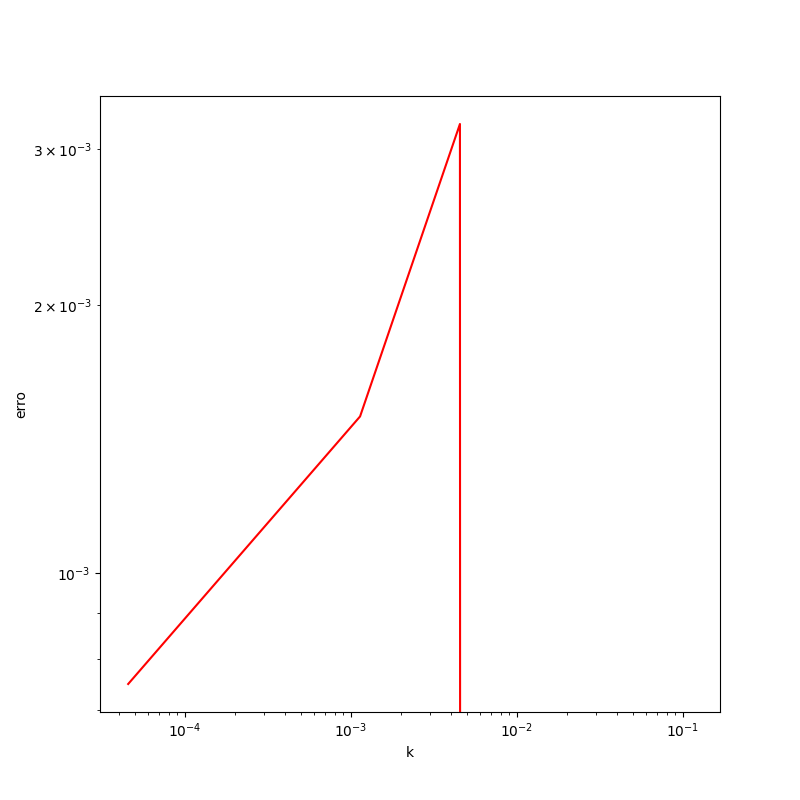
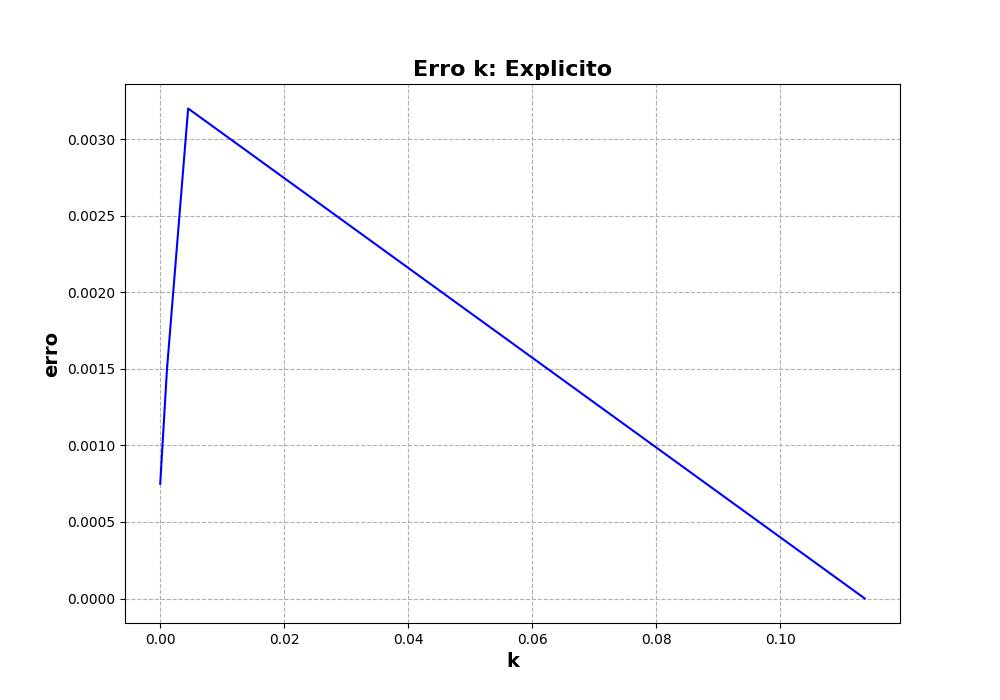
graficos bonitos

diff --git a/03/Metodos.py b/03/Metodos.py
@@ -47,11 +47,12 @@ class Metodos:
         fig = plt.figure(figsize=(10, 10))
         ax = plt.axes(projection='3d')
 
-        ax.view_init(30, 45)
-
         self.u_ref = self.u_analitica(X, T)
 
-        ax.plot_surface(X, T, self.u_ref, cmap='cividis')
+        # Plotando gráfico de superfície
+        surf = ax.plot_surface(X, T, self.u_ref, cmap=plt.cm.ocean)
+
+        fig.colorbar(surf)
 
         ax.view_init(30, 45)
         ax.set_xlabel('X')
@@ -185,7 +186,8 @@ class Metodos:
         fig = plt.figure(figsize=(10, 10))
         ax = plt.axes(projection='3d')
 
-        ax.plot_surface(X, T, U, cmap='cividis')
+        surf = ax.plot_surface(X, T, U, cmap=plt.cm.ocean)
+        fig.colorbar(surf)
 
         ax.view_init(30, 45)
         ax.set_xlabel('X')
@@ -218,16 +220,22 @@ class Metodos:
             fig, ax = plt.subplots()
             ultima_linha = U[-1, :]
 
-            ax.plot(x_lin, ultima_linha)
-            ax.plot(x_lin, u_ref)
+            plt.figure(figsize=(10, 7))
+            plt.xlabel("x", fontdict={"fontsize": 14, "fontweight": "bold"})
+            plt.ylabel("u", fontdict={"fontsize": 14, "fontweight": "bold"})
+            plt.title(
+                "X/U - Método: " + nome, fontdict={"fontsize": 16, "fontweight": "bold"}
+            )
 
-            plt.title("t = %.2f" % i)
-            plt.xlabel('x')
-            plt.ylabel('u')
+            plt.plot(x_lin, ultima_linha, color="blue", label="Solução numérica")
+            plt.plot(x_lin, u_ref, "--", color="red", label="Solução analítica")
 
             ax.set_xlim([self.dom_x[0], self.dom_x[1]])
             ax.set_ylim([self.dom_t[0], self.dom_t[1]])
-            plt.legend(['Solução numérica', 'Solução analítica'])
+
+            plt.grid(linestyle='--')
+
+            plt.legend()
 
             # Salvar o gráfico como uma imagem
             if not os.path.exists('resultados/comparacoes_'+nome):
@@ -266,23 +274,47 @@ class Metodos:
         # Tabela dos valores para a análise da convergência
         analise_conv = pd.DataFrame({'h': valores_h, 'k': valores_k, 'erro': erro})
 
-        # Plotando figuras de convergência
-        analise_conv.plot.line(x='h', y='erro', loglog=True, legend=False, figsize=(8, 8), color='red')
-        plt.ylabel('erro')
+        # =================
 
-        # Salvar o gráfico como uma imagem
+        plt.figure(figsize=(10, 7))
+        plt.xlabel("h", fontdict={"fontsize": 14, "fontweight": "bold"})
+        plt.ylabel("erro", fontdict={"fontsize": 14, "fontweight": "bold"})
+        plt.title(
+            "Erro x: " + nome, fontdict={"fontsize": 16, "fontweight": "bold"}
+        )
+
+        plt.grid(linestyle='--')
+
+        plt.plot(valores_h, erro, color="blue")
+
+        # # Salvar o gráfico como uma imagem
         if not os.path.exists('resultados/convergencia'):
             os.makedirs('resultados/convergencia')
         plt.savefig('resultados/convergencia/conv_' + nome + '_h.png')
 
-        analise_conv.plot.line(x='k', y='erro', loglog=True, legend=False, figsize=(8, 8), color='red')
-        plt.ylabel('erro')
+        plt.close()
 
+        # =============
+
+        plt.figure(figsize=(10, 7))
+        plt.xlabel("k", fontdict={"fontsize": 14, "fontweight": "bold"})
+        plt.ylabel("erro", fontdict={"fontsize": 14, "fontweight": "bold"})
+        plt.title(
+            "Erro k: " + nome, fontdict={"fontsize": 16, "fontweight": "bold"}
+        )
+
+        plt.grid(linestyle='--')
+
+        plt.plot(valores_k, erro, color="blue")
+
+        # # Salvar o gráfico como uma imagem
         if not os.path.exists('resultados/convergencia'):
             os.makedirs('resultados/convergencia')
         plt.savefig('resultados/convergencia/conv_' + nome + '_k.png')
 
+        plt.close()
     # Imprime a matriz em um arquivo txt
+
     def imprime_matriz(self, A):
         format = "%.0f"
 
